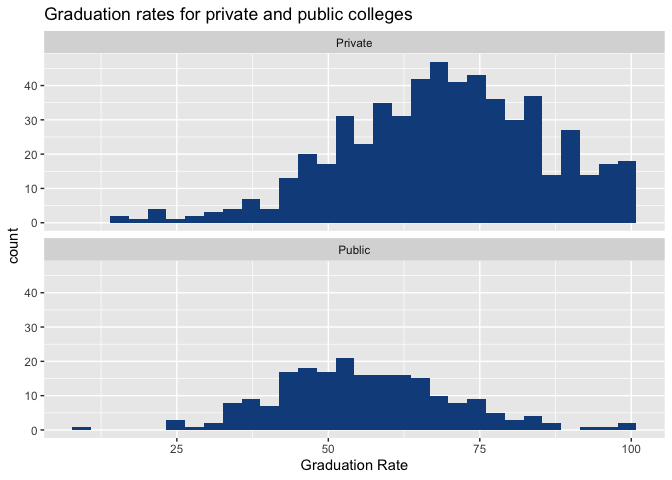
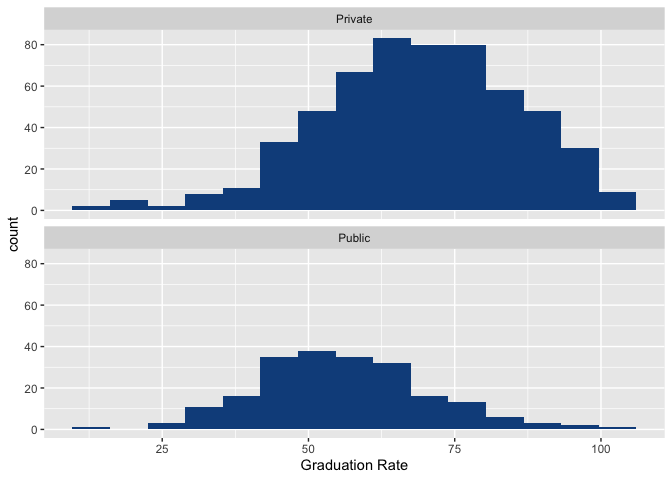
PS07 - 2

diff --git a/README.md b/README.md
@@ -1,8 +1,7 @@
-Untitled
+Private and Public Colleges in the US
 ================
 
-Including Code
---------------
+### Loading Data
 
 ``` r
 library(tidyverse)
@@ -23,6 +22,8 @@ library(tidyverse)
 colleges <- read.csv("College_Data.csv")
 ```
 
+### Wrangling for easier manipulation and visualization
+
 ``` r
 colleges_percent <- colleges %>%
   mutate(percent_acc = Accept/Apps)
@@ -37,17 +38,20 @@ cost <- colleges_percent %>%
   rename(Private = re_private)
 ```
 
+Figure 1: Graduation Rates for private and public colleges
+----------------------------------------------------------
+
 ``` r
 ggplot(cost, aes(x = Grad.Rate)) +
+  geom_histogram(fill = "dodgerblue4", bins = 15) +
   facet_wrap(~Private, nrow = 2) +
-  geom_histogram(fill = "dodgerblue4") +
-  labs(x = "Graduation Rate",
-       title = "Graduation rates for private and public colleges")
+  labs(x = "Graduation Rate")
 ```
 
-    ## `stat_bin()` using `bins = 30`. Pick better value with `binwidth`.
-
 ![](README_files/figure-markdown_github/unnamed-chunk-4-1.png)
+
+Summary Statistics for graduation rates
+---------------------------------------
 
 ``` r
 grad_rate_sum <- cost %>%
@@ -64,17 +68,20 @@ grad_rate_sum
     ## 1 Private     69    15   100
     ## 2 Public      55    10   100
 
+Figure 2: Room and board costs for Private and Public Colleges
+--------------------------------------------------------------
+
 ``` r
 ggplot(cost, aes(x = Room.Board)) +
+  geom_histogram(fill = "dodgerblue4", bins = 15) +
   facet_wrap(~Private, nrow = 2) +
-  geom_histogram(fill = "dodgerblue4") +
-  labs(x = "Room and Board Cost",
-       title = "Room and board costs for private and public colleges")
+  labs(x = "Room and Board Cost")
 ```
 
-    ## `stat_bin()` using `bins = 30`. Pick better value with `binwidth`.
-
 ![](README_files/figure-markdown_github/unnamed-chunk-6-1.png)
+
+Summary Statistics for Room and Board Costs
+-------------------------------------------
 
 ``` r
 rb_cost_sum <- cost %>%
@@ -90,3 +97,5 @@ rb_cost_sum
     ##   <chr>    <dbl> <int> <int>
     ## 1 Private   4400  2370  8124
     ## 2 Public    3708  1780  6540
+
+Data Source: <https://www.kaggle.com/yashgpt/us-college-data>
